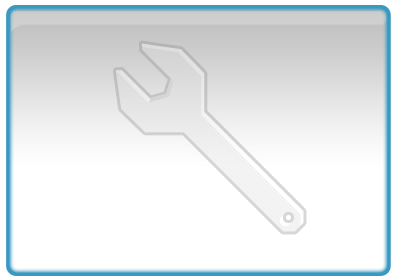
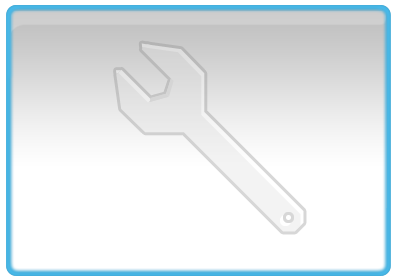
*shitload of color changes to get closer to the original wii menu. *added sliding top and bottom in settings.

Changed region(s): [[0.0, 0.0, 1.0, 1.0]]

diff --git a/trunk/source/Settings.cpp b/trunk/source/Settings.cpp
@@ -51,6 +51,13 @@ int MenuSettings()
     GuiSound btnClick1(button_click_pcm, button_click_pcm_size, SOUND_PCM, Settings.sfxvolume);
 
 	char imgPath[100];
+	
+	snprintf(imgPath, sizeof(imgPath), "%ssettings_top.png", CFG.theme_path);
+	GuiImageData settingsTop(imgPath, settings_top_png);
+	
+	snprintf(imgPath, sizeof(imgPath), "%ssettings_bottom.png", CFG.theme_path);
+	GuiImageData settingsBottom(imgPath, settings_bottom_png);
+
 
 	snprintf(imgPath, sizeof(imgPath), "%sbutton_dialogue_box.png", CFG.theme_path);
 	GuiImageData btnOutline(imgPath, button_dialogue_box_png);
@@ -80,6 +87,14 @@ int MenuSettings()
 
 	GuiImage creditsImg(&creditsImgData);
 	GuiImage creditsImgOver(&creditsOver);
+	
+	GuiImage settingsTopImg(&settingsTop);
+	settingsTopImg.SetAlignment(ALIGN_LEFT, ALIGN_TOP);
+	settingsTopImg.SetEffect(EFFECT_SLIDE_TOP | EFFECT_SLIDE_IN, 35);
+	
+	GuiImage settingsBottomImg(&settingsBottom);
+	settingsBottomImg.SetAlignment(ALIGN_LEFT, ALIGN_BOTTOM);
+	settingsBottomImg.SetEffect(EFFECT_SLIDE_BOTTOM | EFFECT_SLIDE_IN, 35);
 
     GuiTrigger trigA;
 	trigA.SetSimpleTrigger(-1, WPAD_BUTTON_A | WPAD_CLASSIC_BUTTON_A, PAD_BUTTON_A);
@@ -99,6 +114,7 @@ int MenuSettings()
     GuiText titleTxt(LANGUAGE.settings, 28, (GXColor){0, 0, 0, 255});
 	titleTxt.SetAlignment(ALIGN_CENTRE, ALIGN_TOP);
 	titleTxt.SetPosition(0,40);
+	titleTxt.SetEffect(EFFECT_SLIDE_TOP | EFFECT_SLIDE_IN, 35);
 
     GuiImage settingsbackground(&settingsbg);
 
@@ -112,6 +128,7 @@ int MenuSettings()
 	GuiButton backBtn(&backBtnImg,&backBtnImg, 2, 3, -180, 400, &trigA, &btnSoundOver, &btnClick,1);
 	backBtn.SetLabel(&backBtnTxt);
 	backBtn.SetTrigger(&trigB);
+	backBtn.SetEffect(EFFECT_SLIDE_BOTTOM | EFFECT_SLIDE_IN, 35);
 
 	GuiButton homo(1,1);
 	homo.SetTrigger(&trigHome);
@@ -279,6 +296,8 @@ int MenuSettings()
 			mainWindow->Append(&w);
 			w.RemoveAll();
             w.Append(&settingsbackground);
+			w.Append(&settingsTopImg);
+			w.Append(&settingsBottomImg);
             w.Append(&PageIndicatorBtn1);
             w.Append(&PageIndicatorBtn2);
 			w.Append(&titleTxt);
@@ -378,6 +397,8 @@ int MenuSettings()
 			mainWindow->Append(&w);
 			w.RemoveAll();
             w.Append(&settingsbackground);
+			w.Append(&settingsTopImg);
+			w.Append(&settingsBottomImg);
             w.Append(&PageIndicatorBtn1);
             w.Append(&PageIndicatorBtn2);
 			w.Append(&titleTxt);

diff --git a/trunk/source/cfg.c b/trunk/source/cfg.c
@@ -299,9 +299,9 @@ void CFG_Default(int widescreen) // -1 = non forced Mode
 		THEME.battery3_y = 425;
 		THEME.battery4_x = 335;
 		THEME.battery4_y = 425;
-		THEME.info_r = 63;
-		THEME.info_g = 154;
-		THEME.info_b = 192;
+		THEME.info_r =  55;
+		THEME.info_g =  190;
+		THEME.info_b =  237;
 		THEME.prompttxt_r = 0;
 		THEME.prompttxt_g = 0;
 		THEME.prompttxt_b = 0;

diff --git a/trunk/source/filelist.h b/trunk/source/filelist.h
@@ -11,6 +11,12 @@
 
 #include <gccore.h>
 
+extern const u8		settings_top_png[];
+extern const u32	settings_top_png_size;
+
+extern const u8		settings_bottom_png[];
+extern const u32	settings_bottom_png_size;
+
 extern const u8		font_ttf[];
 extern const u32	font_ttf_size;
 
